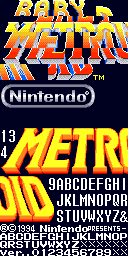
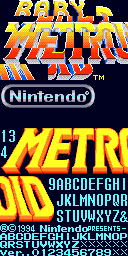
Fix title screen text colors

Changed region(s): [[0.0, 0.6875, 1.0, 1.0], [0.0, 0.5, 0.125, 0.625]]

diff --git a/TODO.md b/TODO.md
@@ -69,8 +69,6 @@ Cosmetic
     picks up Samus.
 * The bomb blocks in phantoon's room leave behind black background
     instead of background that matches
-* "1994" in title sequence is white instead of read
-* Copyright notice is blue instead of white
 * There are dead people on the title screen
 
 Probably Won't Fix
